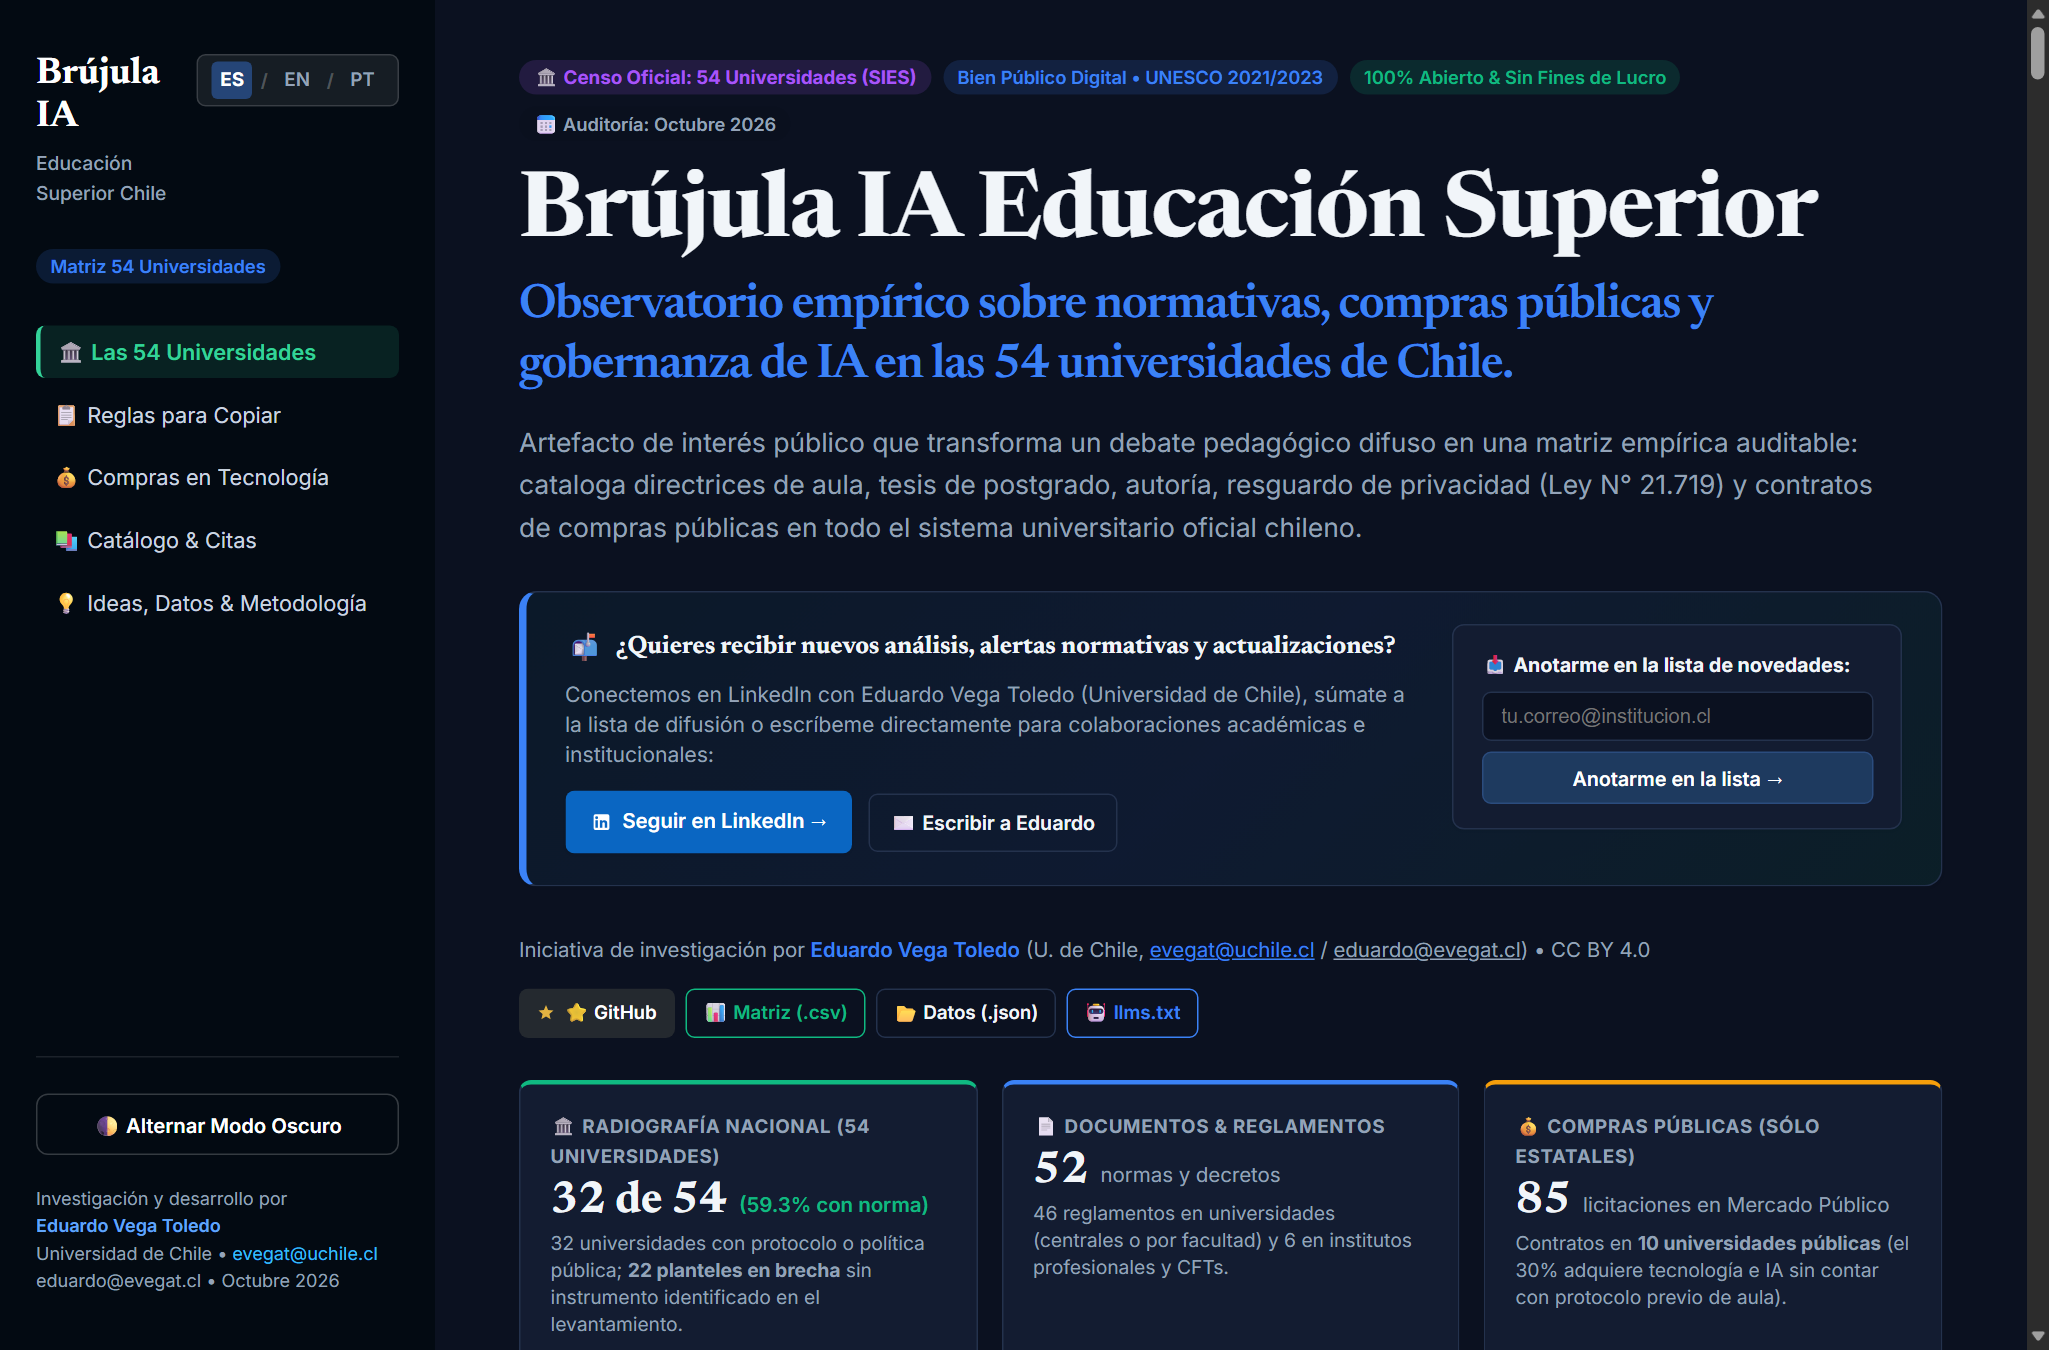
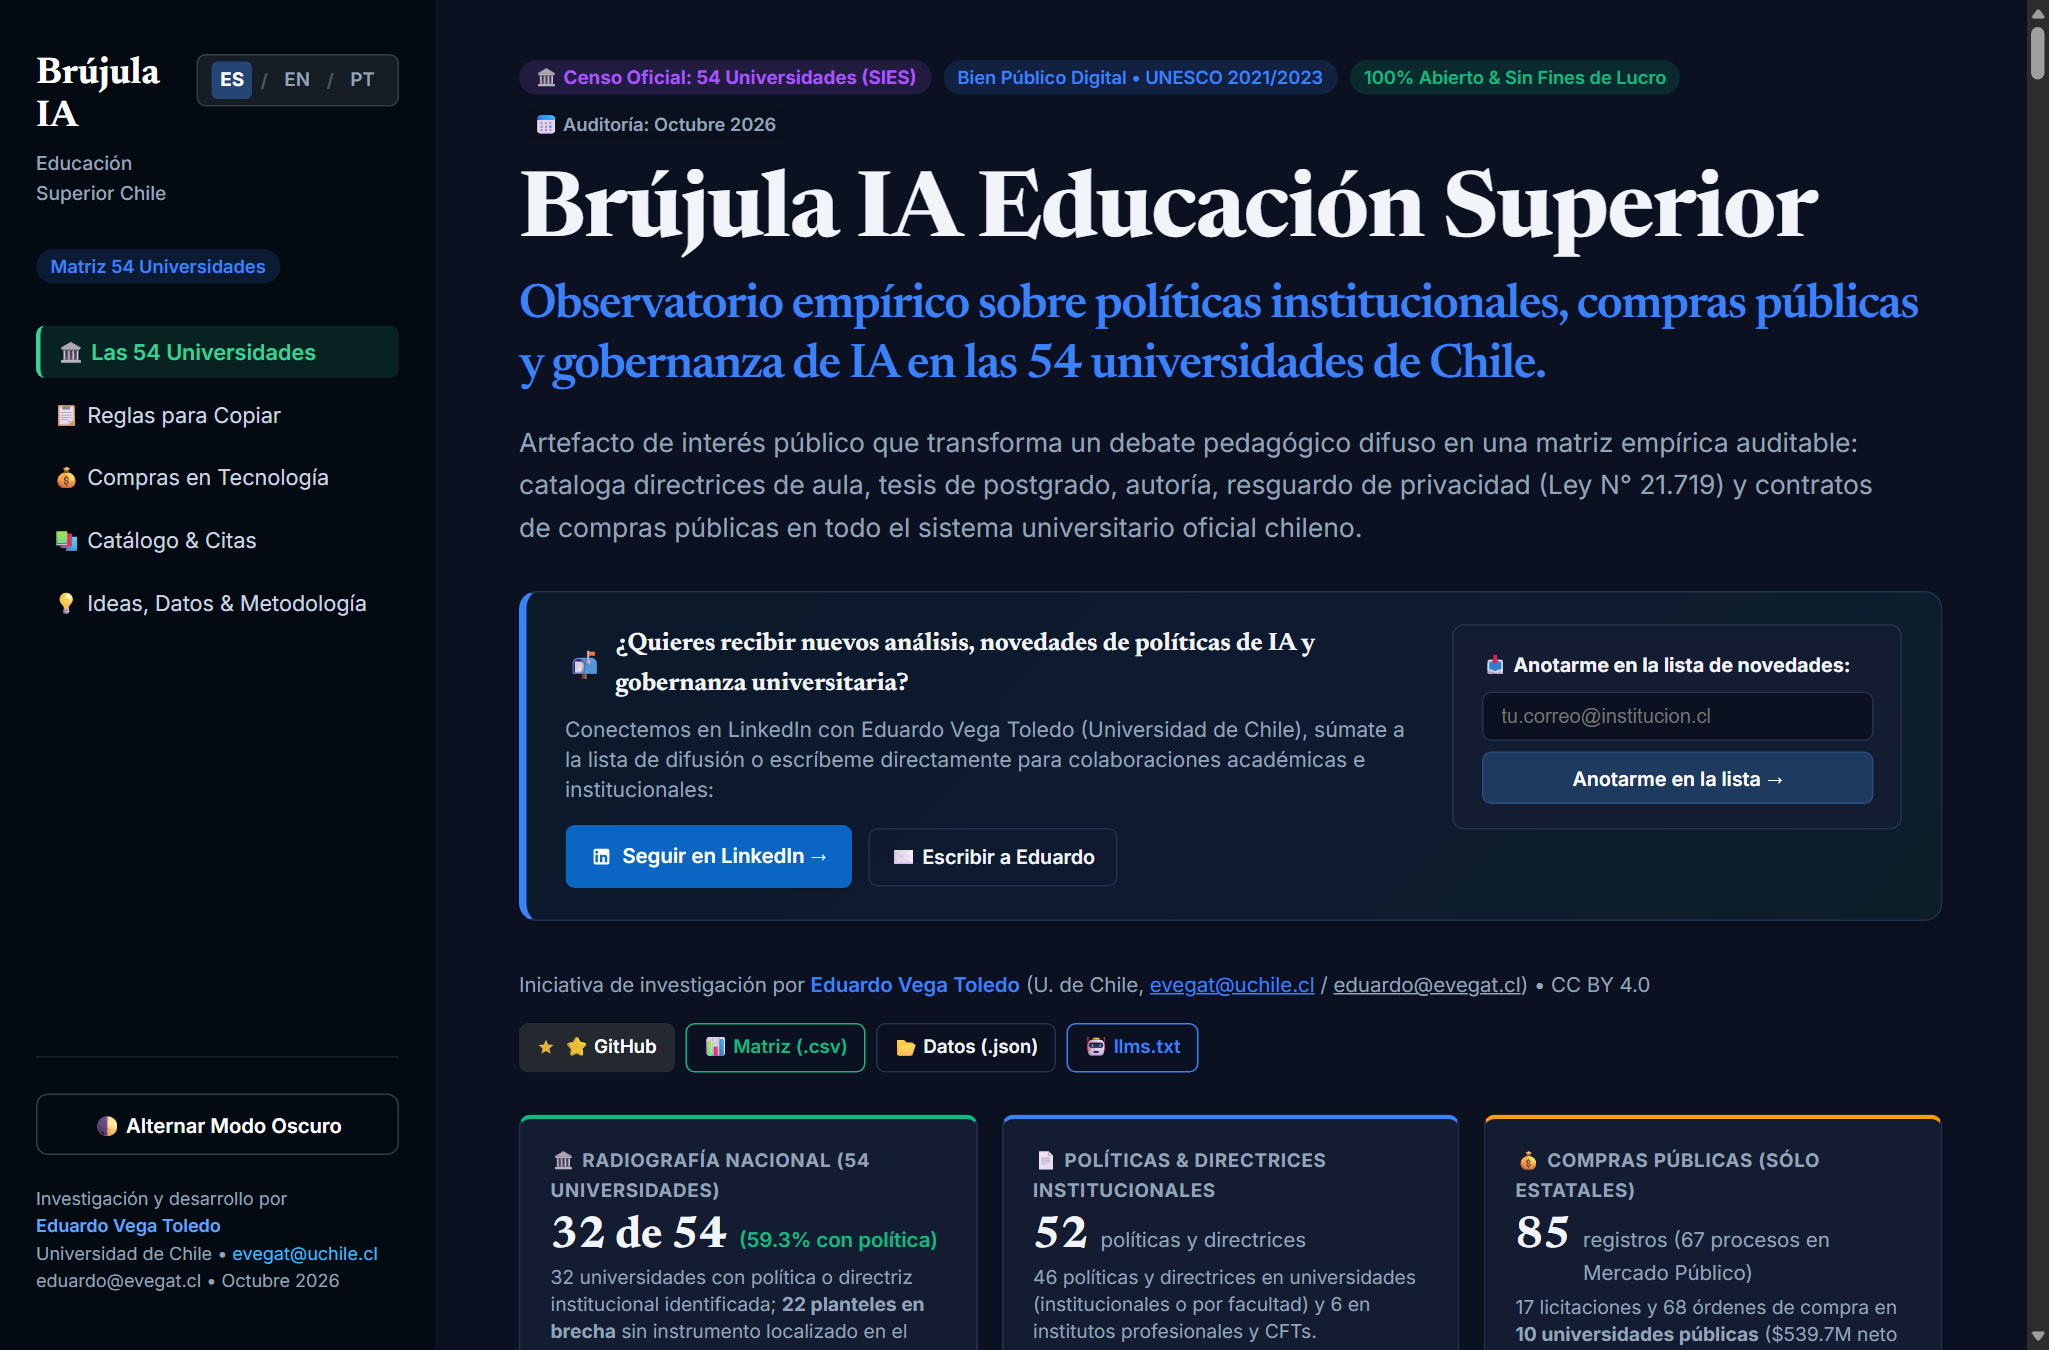
legal(disclaimer): incorporar clausula de rastreo tecnico en portales abiertos y plazo referencial de actualizacion

Changed region(s): [[0.2499, 0.4667, 0.8121, 0.9956], [0.7184, 0.7778, 0.937, 0.9956], [0.2499, 0.1867, 0.937, 0.3111]]

diff --git a/public/AVISO_LEGAL.md b/public/AVISO_LEGAL.md
@@ -47,17 +47,25 @@ Este observatorio **NO almacena, trata ni publica datos personales de personas n
 
 ---
 
-### 3. Protocolo de Rectificación Expedita y Buena Fe (*Right to Reply*)
+### 3. Metodología de Levantamiento Técnico y Rastreo en Portales Abiertos
 
-En concordancia con los principios de buena fe y rigurosidad empírica:
-
-1. **Canal Abierto de Rectificación:** Cualquier universidad, autoridad, docente o miembro de la comunidad que constate una omisión, imprecisión, enlace caduco o que disponga de una nueva normativa formal aprobada, podrá remitir los antecedentes al correo electrónico:  
-   👉 **`eduardo@evegat.cl`** (con copia al formulario web de crowdsourcing).
-2. **Compromiso de Actualización en 48 Horas:** Tras la verificación técnica y documental de los antecedentes remitidos (validación del PDF o enlace oficial de rectoría/vicerrectoría), el observatorio se compromete formalmente a incorporar o rectificar la ficha institucional en un plazo no superior a **48 horas hábiles**, actualizando el repositorio de código y la plataforma en producción.
+1. **Cumplimiento de la Ley N° 21.459 sobre Delitos Informáticos:** La recopilación de antecedentes y documentos de universidades públicas y privadas se efectuó exclusivamente sobre recursos, páginas web y repositorios documentales de acceso público e irrestricto en internet. No se vulneraron barreras técnicas de autenticación, contraseñas, credenciales de usuario ni medidas de seguridad informática (Art. 2 de la Ley N° 21.459).
+2. **Navegación Pasiva y Respeto a Servidores:** Las consultas técnicas operaron bajo estándares de baja frecuencia y navegación pasiva, resguardando la estabilidad y disponibilidad operativa de las plataformas institucionales.
+3. **No Invasión de Entornos Cerrados:** El levantamiento no abarca plataformas LMS protegidas (Canvas, Moodle, Blackboard) ni intranets corporativas. Por tanto, el observatorio reconoce que pueden existir reglamentos y directrices vigentes no accesibles al público general, manteniendo a disposición de cada institución el canal expedito de rectificación colaborativa.
 
 ---
 
-### 4. Licencia y Uso de Datos
+### 4. Protocolo de Rectificación y Actualización Colaborativa (*Right to Reply*)
+
+En concordancia con los principios de buena fe y rigurosidad empírica:
+
+1. **Canal Abierto de Rectificación:** Cualquier universidad, autoridad, docente o miembro de la comunidad que constate una omisión, imprecisión, enlace caduco o que disponga de una nueva política o directriz formal aprobada, podrá remitir los antecedentes al correo electrónico:  
+   👉 **`eduardo@evegat.cl`** (o a través del formulario web de aporte en la plataforma).
+2. **Plazo Referencial de Actualización:** Tras la verificación técnica y documental de los antecedentes remitidos (validación del PDF o enlace oficial de rectoría/vicerrectoría), el observatorio procurará incorporar o rectificar la ficha institucional en un plazo **referencial estimado de 48 horas hábiles**, actualizando el repositorio de código y la plataforma en producción.
+
+---
+
+### 5. Licencia y Uso de Datos
 
 - **Datos y Contenidos:** Disponibles públicamente bajo la licencia [Creative Commons Atribución 4.0 Internacional (CC BY 4.0)](https://creativecommons.org/licenses/by/4.0/). Se autoriza su reproducción, distribución y reutilización libre citando la fuente: *«Brújula IA Educación Superior Chile (Eduardo Vega Toledo, 2026)»*.
 - **Código Fuente:** Licencia [MIT](https://opensource.org/licenses/MIT).
